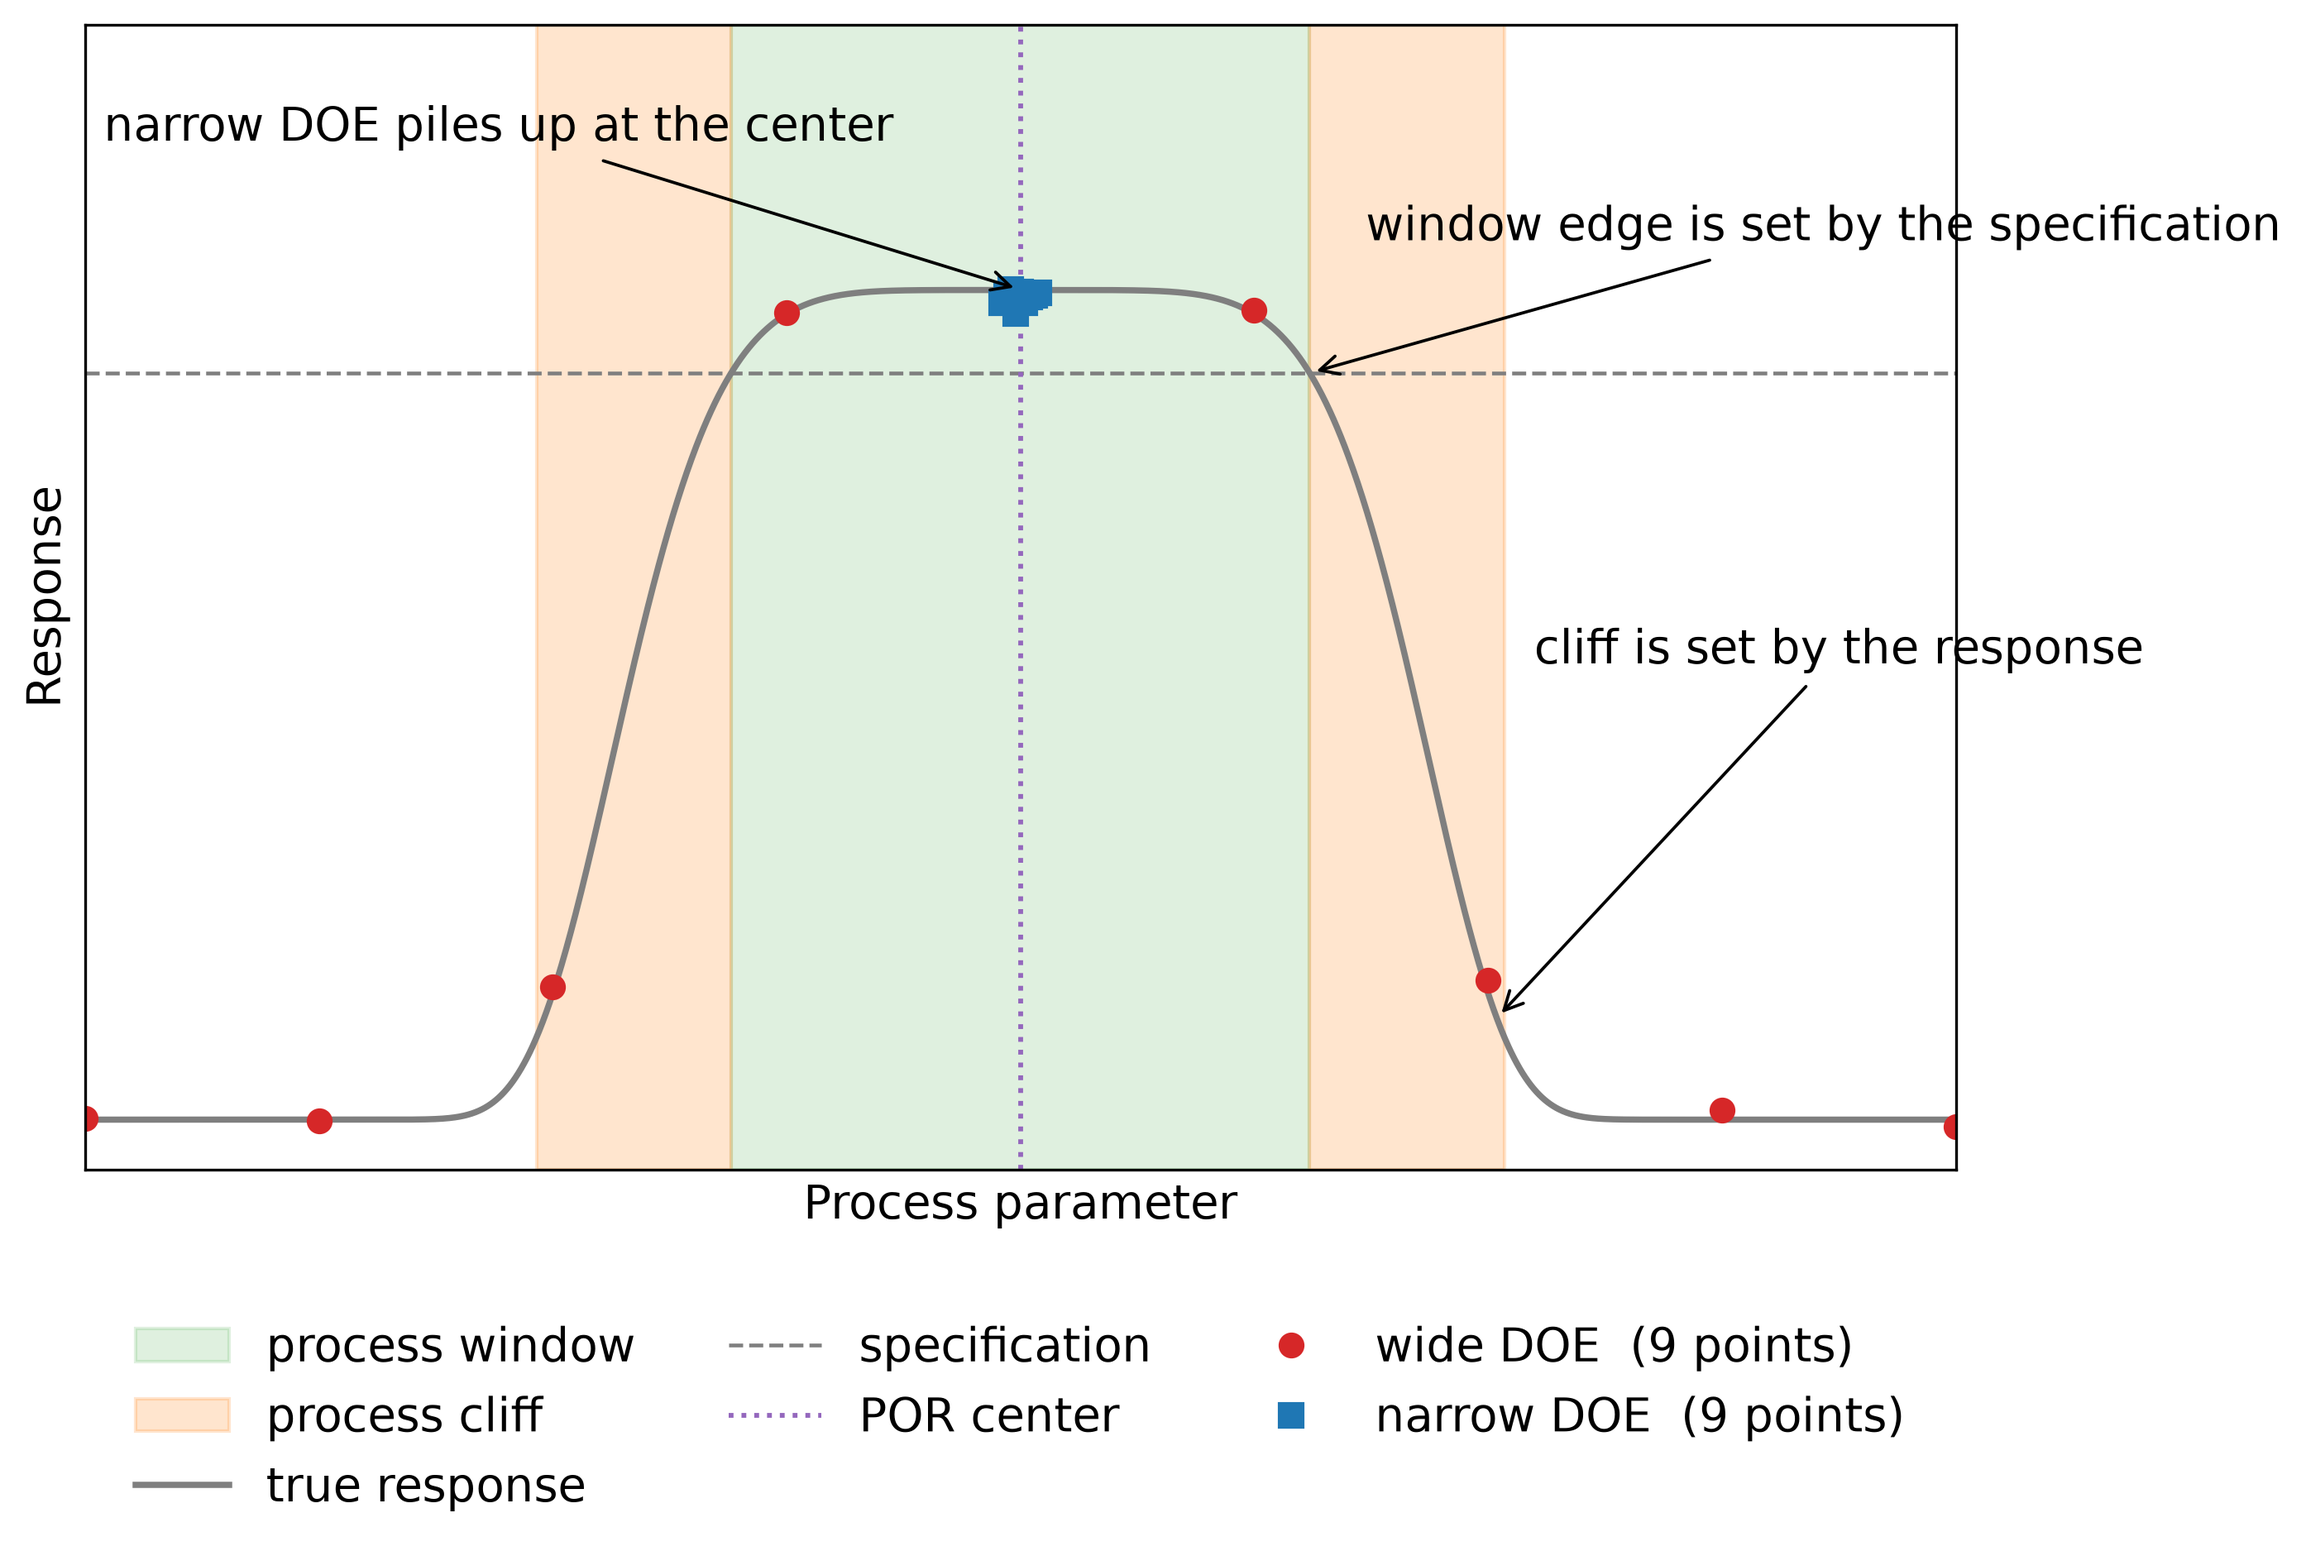
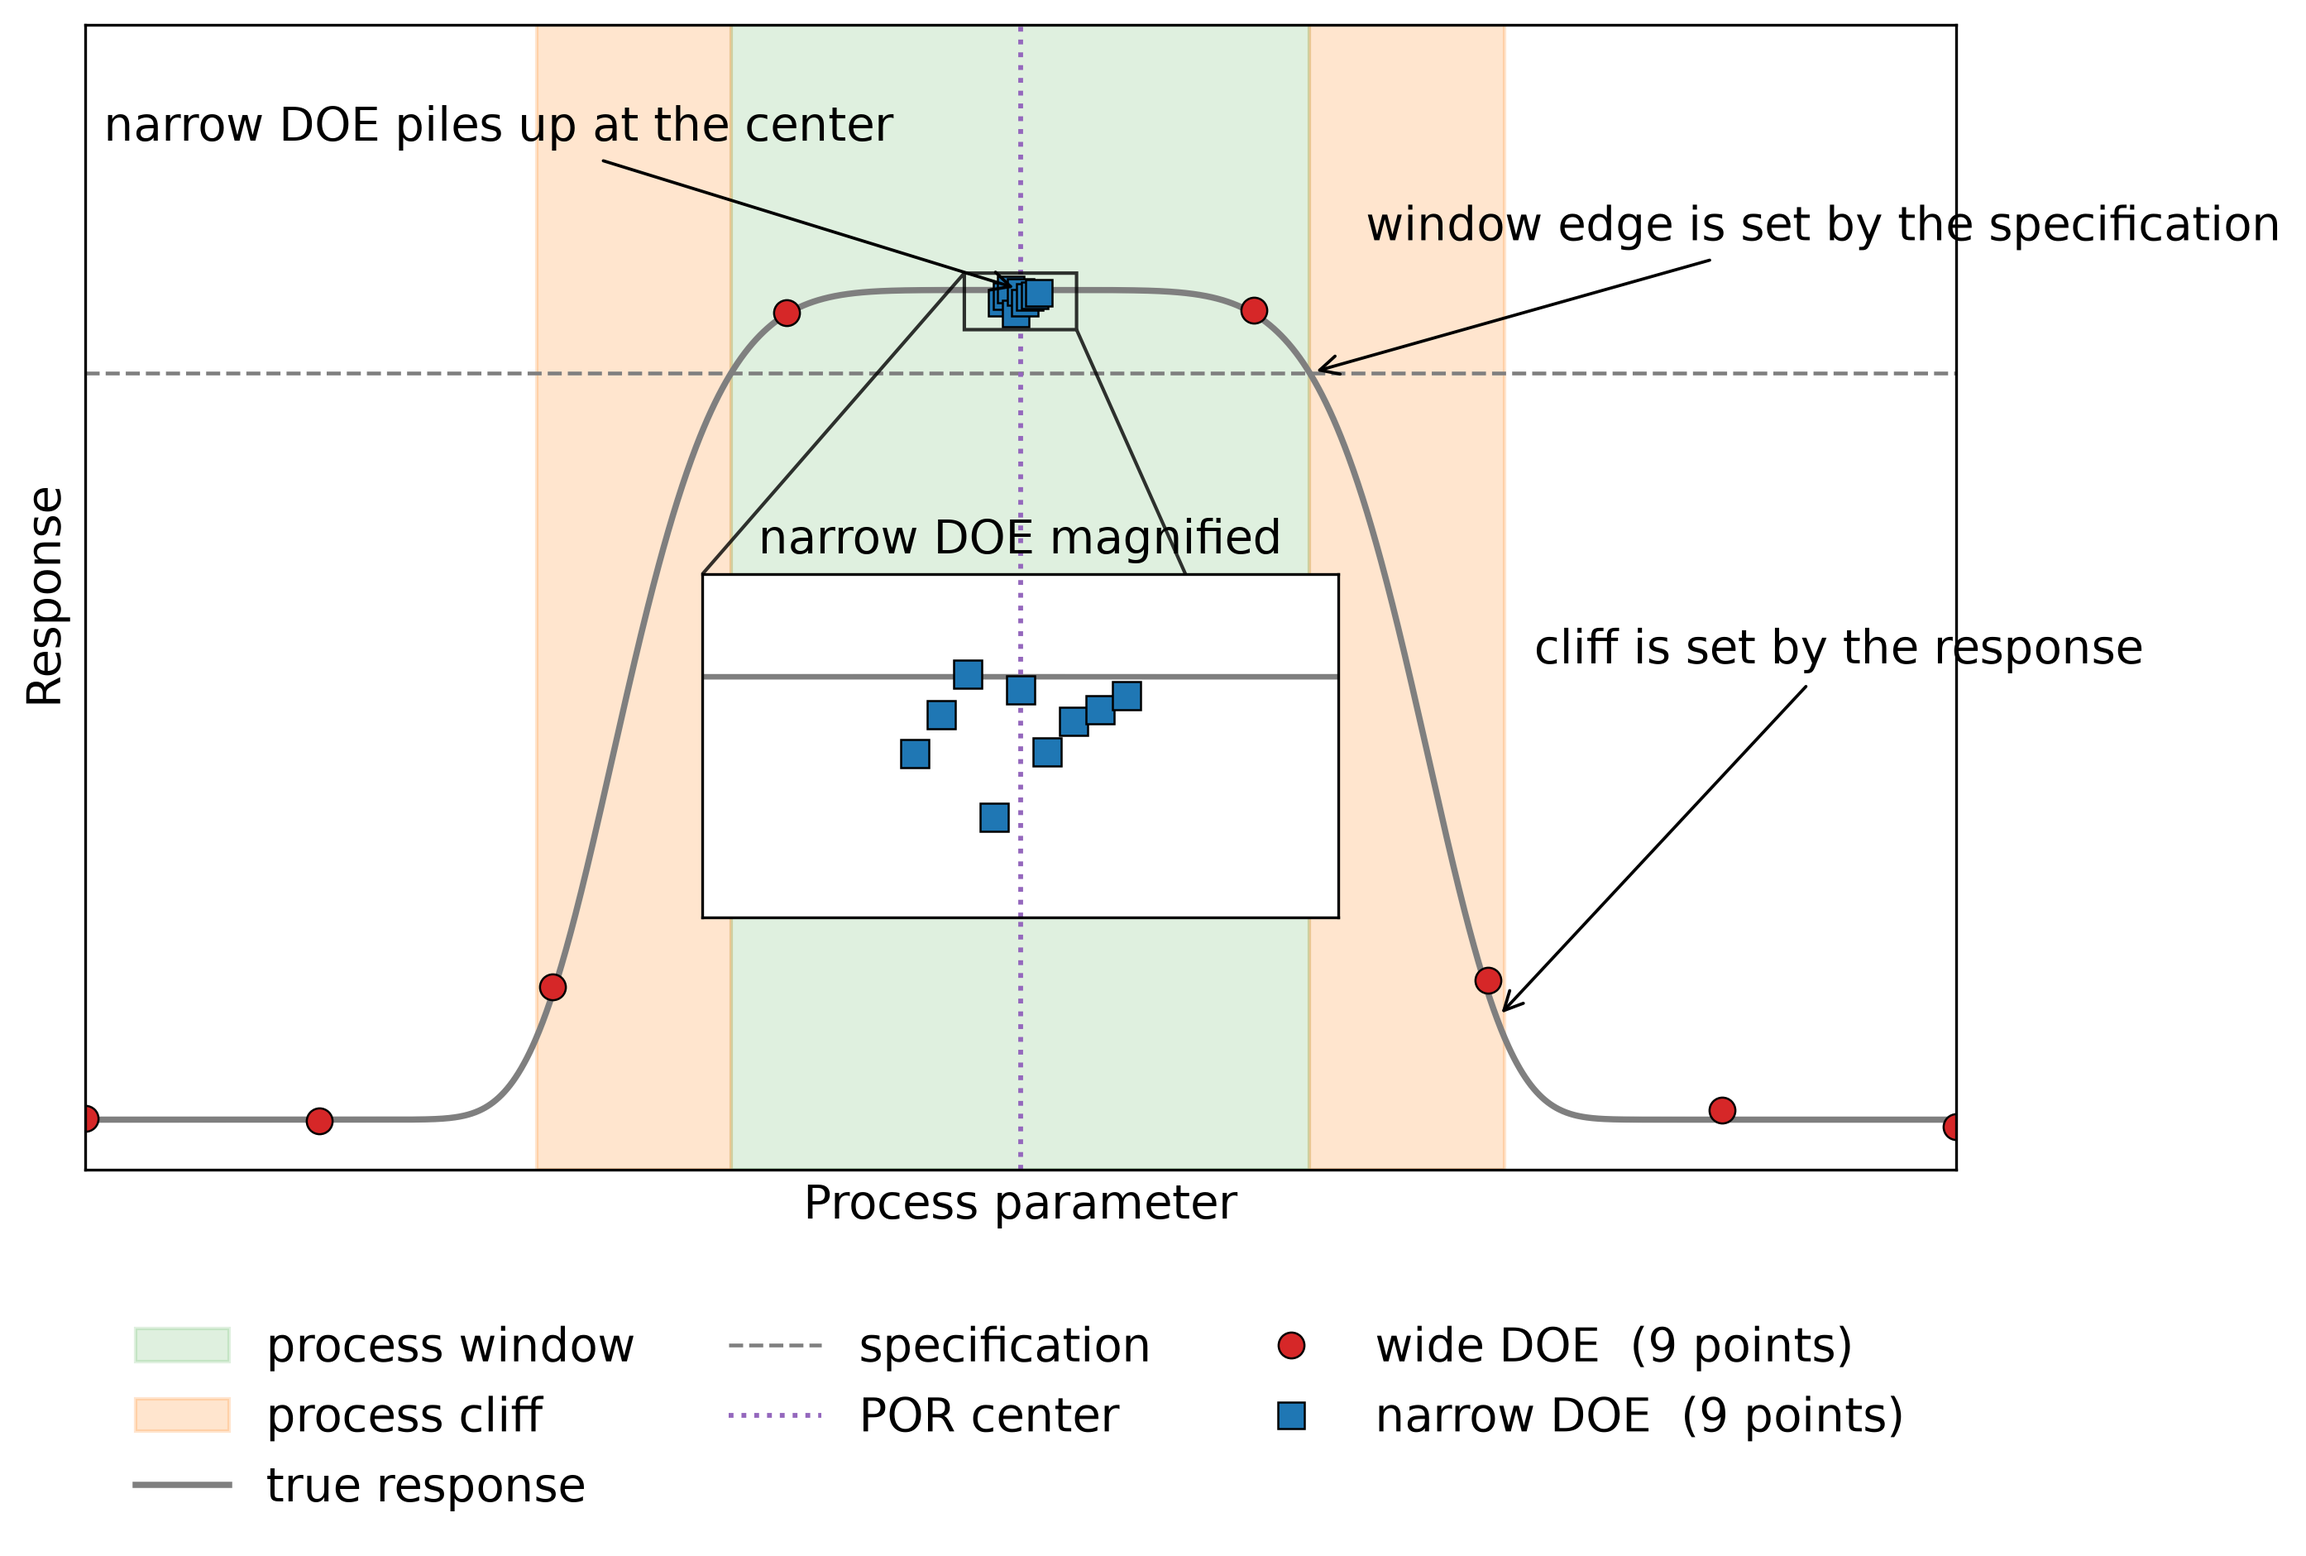
Magnify the narrow design, and say what the propositions are about
Nine narrow points land inside one mark at the scale the wide design
needs, so the figure showed a smear where it should show a design. Add an
inset over the same curve and the same center line, so what reads as one
mark opens into the nine points it is.

Rewrite the judgement in section 1. It said the propositions come out
true once the subject is pinned to data, which describes how the sentence
was arrived at rather than what it claims. Say instead that the
propositions are about data and hold when read that way.

Define POR center alongside POR, since that is the term the figure uses.

Claude-Session: https://claude.ai/code/session_01Q6gebKnkh6fvcJxvUaxQ1o

Changed region(s): [[0.2808, 0.3392, 0.5929, 0.6167], [0.4057, 0.1542, 0.4681, 0.2158]]

diff --git a/Active-Learning/DOE/doe-range-figure.py b/Active-Learning/DOE/doe-range-figure.py
@@ -1,6 +1,7 @@
 """Draw the process response against one parameter, marking the window, the cliff and the two DOE designs.
 
 Changelog:
+    0.1.0.2026.8.27 Magnify the narrow design in an inset, since its points overlap at full scale.
     0.0.0.2026.8.27 Initial release.
 """
 
@@ -16,7 +17,7 @@ from matplotlib import pyplot as plt
 from matplotlib.colors import TABLEAU_COLORS
 
 __author__ = 'yRocket'
-__version__ = "0.0.1.2026.8.27"  # Semantic Versioning: Major.Minor.Patch.Date(YYYY.M.D)
+__version__ = "0.1.0.2026.8.27"  # Semantic Versioning: Major.Minor.Patch.Date(YYYY.M.D)
 
 matplotlib.use('Agg')
 
@@ -93,9 +94,40 @@ def write_points(points: dict = None, out_path: pathlib.Path = None) -> None:
                 })
 
 
+def add_narrow_inset(axis: plt.Axes = None, points: dict = None, center: float = None,
+                     half_width: float = None, sharpness: float = None, zoom_factor: float = None,
+                     font_size: float = None) -> None:
+    """Magnify the narrow design, whose points land on top of one another at the scale of the wide one.
+
+    The inset keeps the same response curve and the same center line, so the reader sees that the whole inset
+    is the single mark the parent axes shows, rather than a second and unrelated picture.
+    """
+    parameter, response = points[Design.NARROW]
+    zoom_span = zoom_factor * 0.5 * (parameter.max() - parameter.min())
+    if zoom_span <= 0.0:
+        raise ValueError("the narrow design has no span, so there is nothing for the inset to magnify")
+
+    inset = axis.inset_axes([0.33, 0.22, 0.34, 0.30])
+    grid = np.linspace(center - zoom_span, center + zoom_span, 400)
+    inset.plot(grid, true_response(parameter=grid, center=center, half_width=half_width, sharpness=sharpness),
+               color=TABLEAU_COLORS['tab:gray'], linewidth=1.6)
+    inset.axvline(center, color=TABLEAU_COLORS['tab:purple'], linestyle=':', linewidth=1.4)
+    inset.plot(parameter, response, linestyle='none', marker=MARKER[Design.NARROW], markersize=8.0,
+               color=PLOT_COLOR[Design.NARROW], markeredgecolor='black', markeredgewidth=0.6)
+
+    spread = response.max() - response.min()
+    inset.set_xlim(center - zoom_span, center + zoom_span)
+    inset.set_ylim(response.min() - 0.7 * spread, response.max() + 0.7 * spread)
+    inset.set_xticks([])
+    inset.set_yticks([])
+    inset.set_title('narrow DOE magnified', fontsize=font_size)
+
+    axis.indicate_inset_zoom(inset, edgecolor='black', linewidth=1.0, alpha=0.8)
+
+
 def plot_range(points: dict = None, center: float = None, half_width: float = None, sharpness: float = None,
-               specification: float = None, collapse: float = None, font_scale: float = None,
-               out_path: pathlib.Path = None, dpi: int = None) -> tuple:
+               specification: float = None, collapse: float = None, zoom_factor: float = None,
+               font_scale: float = None, out_path: pathlib.Path = None, dpi: int = None) -> tuple:
     """Draw the response curve with the window shaded, the cliff shaded beside it and both designs overlaid.
 
     The cliff is shaded only over the steep shoulder, between the window edge and the parameter at which the
@@ -125,8 +157,12 @@ def plot_range(points: dict = None, center: float = None, half_width: float = No
                  label='POR center')
 
     for design, (parameter, response) in points.items():
-        axis.plot(parameter, response, linestyle='none', marker=MARKER[design], markersize=6.5,
-                  color=PLOT_COLOR[design], label=f"{design.value} DOE  ({parameter.size} points)")
+        axis.plot(parameter, response, linestyle='none', marker=MARKER[design], markersize=7.5,
+                  color=PLOT_COLOR[design], markeredgecolor='black', markeredgewidth=0.6,
+                  label=f"{design.value} DOE  ({parameter.size} points)")
+
+    add_narrow_inset(axis=axis, points=points, center=center, half_width=half_width, sharpness=sharpness,
+                     zoom_factor=zoom_factor, font_size=font_size)
 
     axis.annotate('narrow DOE piles up at the center', xy=(center, points[Design.NARROW][1].max()),
                   xytext=(center - 98.0, 118.0), fontsize=font_size,
@@ -158,7 +194,7 @@ def build_figure(out_folder: pathlib.Path = None, center: float = None, half_wid
                  sharpness: float = None, specification: float = None, collapse: float = None,
                  wide_span: float = None,
                  narrow_span: float = None, n_wide: int = None, n_narrow: int = None, noise: float = None,
-                 font_scale: float = None, seed: int = None, dpi: int = None) -> None:
+                 zoom_factor: float = None, font_scale: float = None, seed: int = None, dpi: int = None) -> None:
     """Sample both designs from the same response and write the figure and the sampled points."""
     rng = np.random.default_rng(seed)
     response_kwargs = {'half_width': half_width, 'sharpness': sharpness}
@@ -171,7 +207,8 @@ def build_figure(out_folder: pathlib.Path = None, center: float = None, half_wid
     }
 
     lower, upper = plot_range(points=points, center=center, half_width=half_width, sharpness=sharpness,
-                              specification=specification, collapse=collapse, font_scale=font_scale,
+                              specification=specification, collapse=collapse, zoom_factor=zoom_factor,
+                              font_scale=font_scale,
                               out_path=out_folder / 'fig1_doe_range.png', dpi=dpi)
     write_points(points=points, out_path=out_folder / 'fig1_doe_range_points.csv')
 
@@ -203,6 +240,8 @@ def parse_args() -> argparse.Namespace:
                         help="number of points in the narrow design")
     parser.add_argument('--noise', type=float, default=1.2,
                         help="standard deviation of the measurement noise added to the response")
+    parser.add_argument('--zoom-factor', type=float, default=3.0,
+                        help="how many narrow half spans the magnified inset reaches on each side of the center")
     parser.add_argument('--font-scale', type=float, default=1.5,
                         help="multiplier applied to every text size in the figure")
     parser.add_argument('--seed', type=int, default=0,
@@ -238,6 +277,8 @@ def parse_args() -> argparse.Namespace:
         parser.error(f"each design needs at least 3 points: {args.n_wide}, {args.n_narrow}")
     if args.noise < 0.0:
         parser.error(f"--noise must not be negative: {args.noise}")
+    if args.zoom_factor <= 1.0:
+        parser.error(f"--zoom-factor must exceed 1, otherwise the inset cuts the design off: {args.zoom_factor}")
     if args.font_scale <= 0.0:
         parser.error(f"--font-scale must be positive: {args.font_scale}")
     if args.dpi <= 0:
@@ -252,4 +293,4 @@ if __name__ == '__main__':
                  sharpness=cli.sharpness, specification=cli.specification, collapse=cli.collapse,
                  wide_span=cli.wide_span,
                  narrow_span=cli.narrow_span, n_wide=cli.n_wide, n_narrow=cli.n_narrow, noise=cli.noise,
-                 font_scale=cli.font_scale, seed=cli.seed, dpi=cli.dpi)
+                 zoom_factor=cli.zoom_factor, font_scale=cli.font_scale, seed=cli.seed, dpi=cli.dpi)
